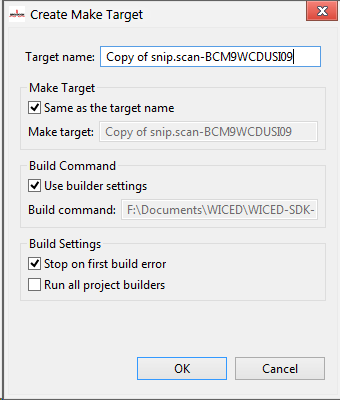
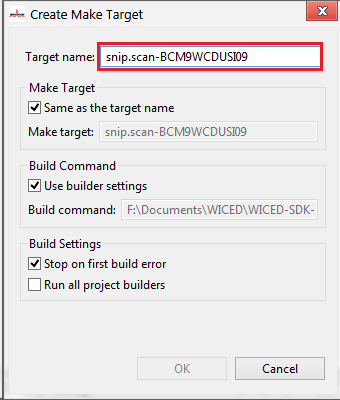
Update

diff --git a/SenSing/Wiced SDK & BM-09 Reference/README.md b/SenSing/Wiced SDK & BM-09 Reference/README.md
@@ -15,6 +15,23 @@
 
   ![Extract Folder](/SenSing/Wiced SDK & BM-09 Reference/Screenshots/folder_copy.png)
 
-3. 
+3. Copy the existing Make Target `snip.scan-BCM943362WCD4` and paste it
 
-Additional information can be found [here](http://community.broadcom.com/message/7619)
+  ![Copy Make](/SenSing/Wiced SDK & BM-09 Reference/Screenshots/copy_make.png)
+
+4. Rename the new Make Target to `snip.scan-BCM9WCDUSI09`
+
+  ![Rename Make](/SenSing/Wiced SDK & BM-09 Reference/Screenshots/paste_make.png)
+
+5. Repeat steps 3 and 4 and create 2 more Make Targets:
+  * `snip.scan-BCM9WCDUSI09 download`
+  * `snip.scan-BCM9WCDUSI09 download run`
+  ![Mutliple Make](/SenSing/Wiced SDK & BM-09 Reference/Screenshots/multiple_make.png)
+
+Executing `snip.scan-BCM9WCDUSI09 download run` while the EVB is connected and drivers are properly installed, should compile, download and run the binary file for the scan snip.
+
+### Additional Information
+* Drivers for the EVB are under `%My Documents%\WICED\WICED-SDK-3.1.2\WICED-SDK\tools\drivers`
+* Default baud rate for serial port: `115200`
+* Useful links:
+  * http://community.broadcom.com/message/7619
